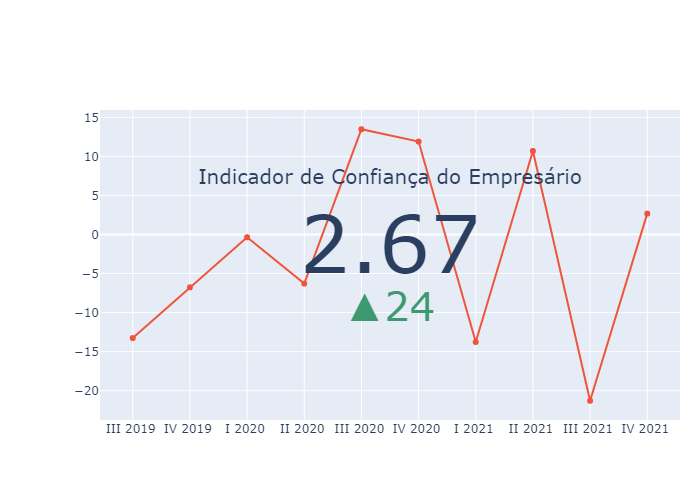
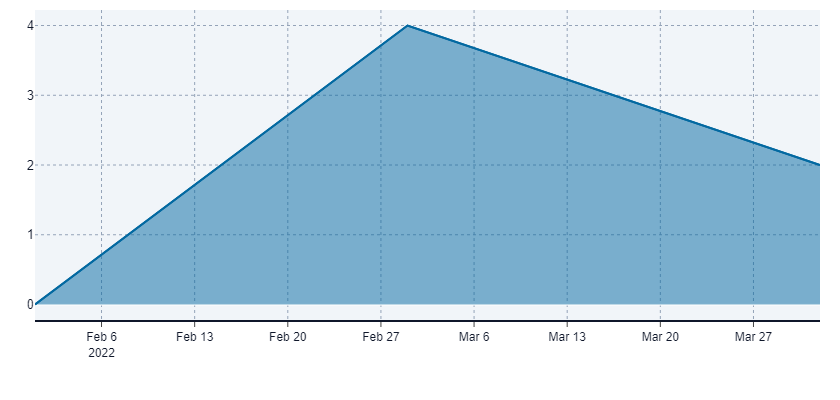
IMPROVE: Area Chart

diff --git a/src/plots/services/area.py b/src/plots/services/area.py
@@ -1,54 +1,62 @@
-import plotly.express as px
-from src.plots.domain.requiredFields.area import PlotData
+import plotly.graph_objects as go
+from src.plots.domain.requiredFields.area import PlotBody
 
-def createAreaPlot(plotData: list[PlotData], path: str):    
-    fig = px.area(
-      plotData,
-      x='x',
-      y='y',
-      labels={'x': 'Data',  'y': 'Variação do indicador'},
-    )
+fig = go.Figure()
 
+def createAreaPlot(body: PlotBody, path: str):
+    tickformat = body['tickformat']
+    ticksuffixY = body['ticksuffixY']
+    
+    y = [d['y'] for d in body['data']]
+    x = [d['x'] for d in body['data']]
+  
+    fig.add_trace(go.Scatter(
+        x=x,
+        y=y,
+        fill = 'tonexty',
+        line = dict(color='#0369a1', width=2),
+        mode = 'lines'
+    ))
+    
     fig.update_layout(
-        xaxis=dict(
-            dtick='M6',
-            tickformat='%b\n%Y',
-            ticklabelmode='period',
-            griddash='dot', 
-            gridcolor='#94a3b8',
-            showline=True,
-            showticklabels=True,
-            linecolor='#0f172a',
-            linewidth=2,
-            ticks='outside',
-            tickfont=dict(
-                family='Arial',
-                size=12,
-                color='#0f172a',
-            ),
+        width = 840,
+        height = 400,
+        showlegend = False,
+        plot_bgcolor ='#f1f5f9',
+        margin = dict(
+          l = 35,
+          r = 20,
+          t = 10
         ),
-        yaxis=dict(
-            griddash='dot', 
-            gridcolor='#94a3b8',
-            showline=False,
-            showticklabels=True,
-            linecolor='#0f172a',
-            linewidth=2,
-            tickfont=dict(
-                family='Arial',
-                size=13,
-                color='#0f172a',
-            ),
+        xaxis = dict(
+          tickformat = tickformat,
+          griddash = 'dot',
+          gridcolor = '#94a3b8',
+          showline = True,
+          showticklabels = True,
+          linecolor = '#0f172a',
+          linewidth = 2,
+          ticks = 'outside',
+          tickfont = dict(
+            family = 'Arial',
+            size = 12,
+            color = '#0f172a'
+          )
         ),
-        autosize=False,
-        margin=dict(
-            autoexpand=False,
-            l=100,
-            r=20,
-            t=110,
-        ),
-        showlegend=False,
-        plot_bgcolor='white'
+        yaxis = dict(
+          ticksuffix = ticksuffixY,
+          griddash = 'dot',
+          gridcolor = '#94a3b8',
+          showline = False,
+          showticklabels = True,
+          linecolor = '#0f172a',
+          linewidth = 2,
+          tickfont = dict(
+            family = 'Arial',
+            size = 13,
+            color = '#0f172a'
+          )
+        )
     )
 
     fig.write_image(path)

diff --git a/src/plots/domain/requiredFields/area.py b/src/plots/domain/requiredFields/area.py
@@ -1,4 +1,5 @@
 from datetime import date
+from typing import Union
 from pydantic import BaseModel
 
 class PlotData(BaseModel):
@@ -7,22 +8,26 @@ class PlotData(BaseModel):
 
 class PlotBody(BaseModel):
   data: list[PlotData]
+  tickformat: Union[str, None] = None
+  ticksuffixY: Union[str, None] = None
   
   class Config:
     schema_extra = { 
-      "example": {
-        "data": [
+      'example': {
+        'tickformat': '%b\n%Y',
+        'ticksuffixY': '%',
+        'data': [
           {
-            "x": "2022-02-01",
-            "y": 0
+            'x': '2022-02-01',
+            'y': 0
           },
           {
-            "x": "2022-03-01",
-            "y": 4
+            'x': '2022-03-01',
+            'y': 4
           },
           {
-            "x": "2022-04-01",
-            "y": 2
+            'x': '2022-04-01',
+            'y': 2
           }
         ]
       }

diff --git a/src/plots/useCases/area.py b/src/plots/useCases/area.py
@@ -5,8 +5,7 @@ from src.plots.services.area import createAreaPlot
 
 async def areaUseCase(extension: str, body: PlotBody):
     path = str(Path(__file__).parent.joinpath(f'static/mozeconomia-info-grafico.{extension}'))
-    data = body['data']
     
-    createAreaPlot(data, path)
+    createAreaPlot(body, path)
 
     return path
